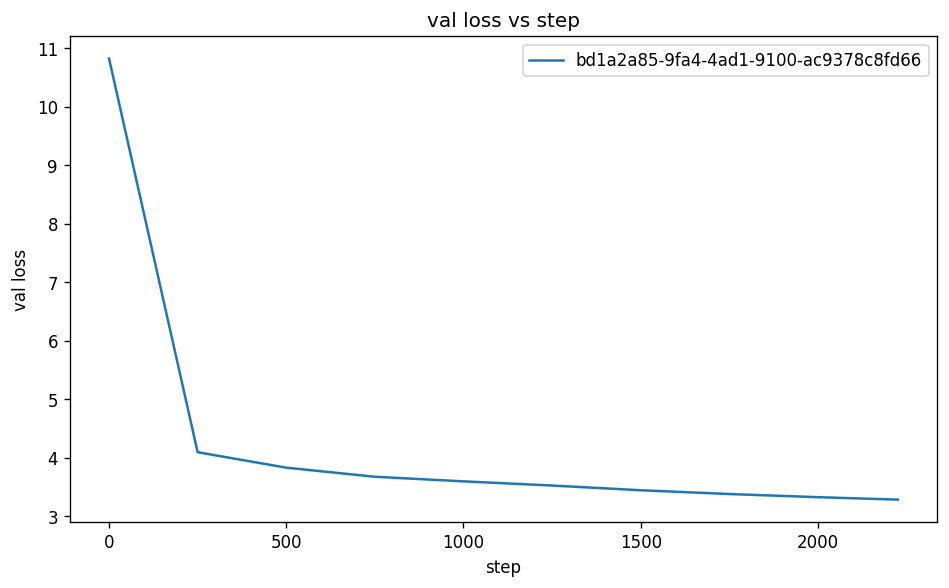
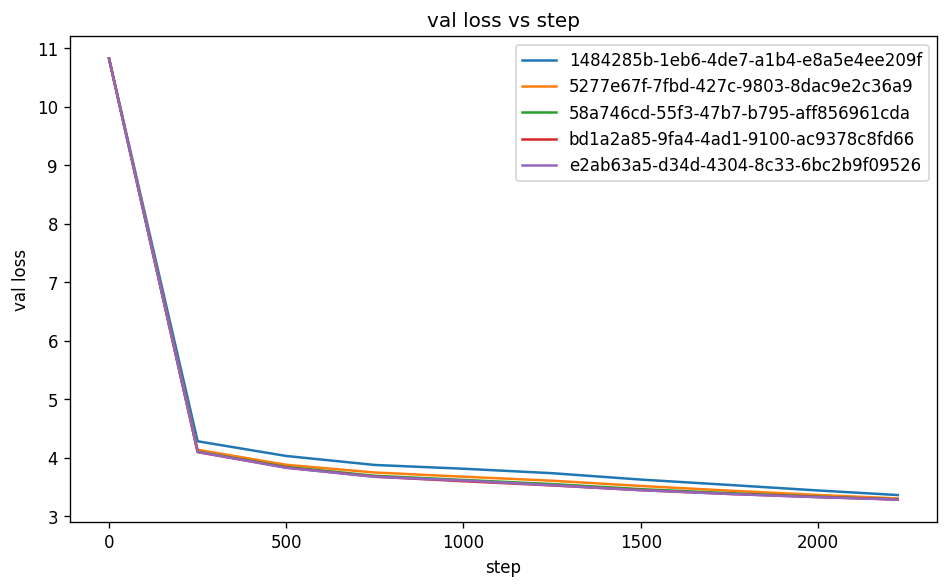
dump

diff --git a/popo.py b/popo.py
@@ -1341,7 +1341,8 @@ optimizer1 = DistAdam(
     eps=1e-8,
     weight_decay=0.0,
 )
-optimizer2 = NorMuon(hidden_matrix_params + gate_params, lr=0.03, momentum=0.95, beta2=0.95, weight_decay=1.2)
+# optimizer2 = NorMuon(hidden_matrix_params + gate_params, lr=0.03, momentum=0.95, beta2=0.95, weight_decay=1.2)
+optimizer2 = NorMuon(hidden_matrix_params + gate_params, lr=0.1, momentum=0.95, beta2=0.95, weight_decay=1.2)
 optimizers = [optimizer1, optimizer2]
 for opt in optimizers:
     for group in opt.param_groups:
